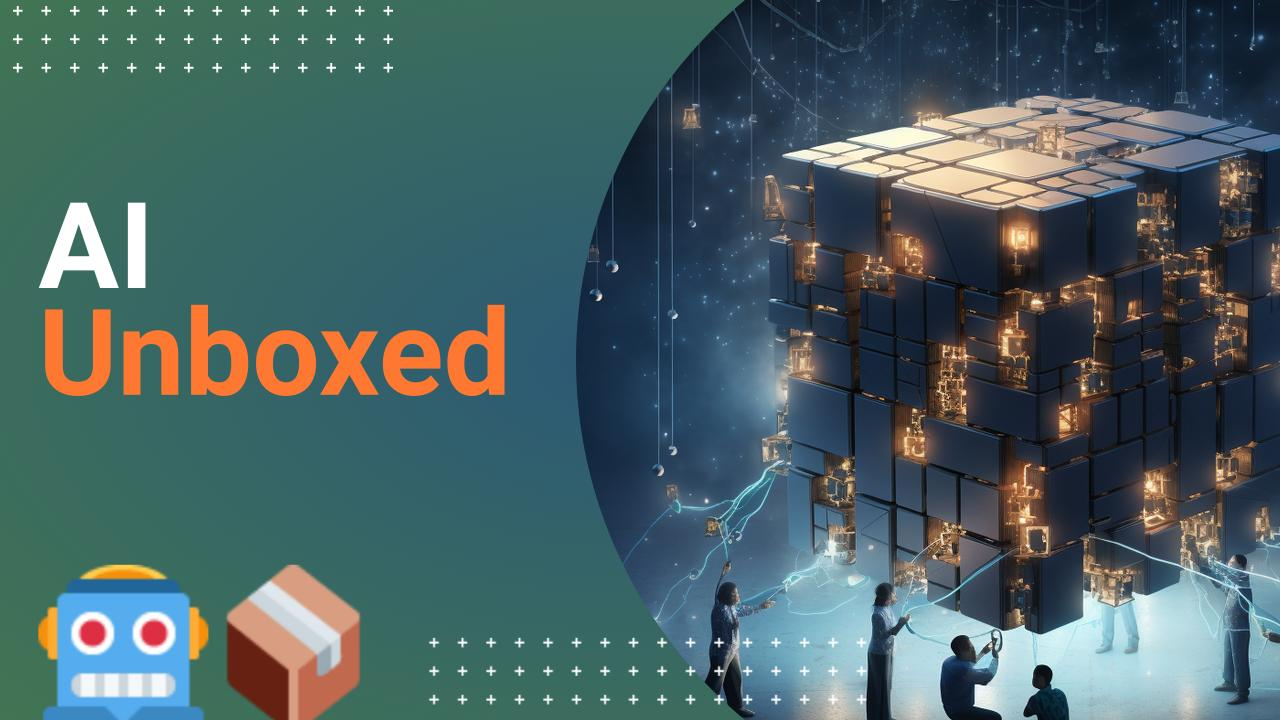
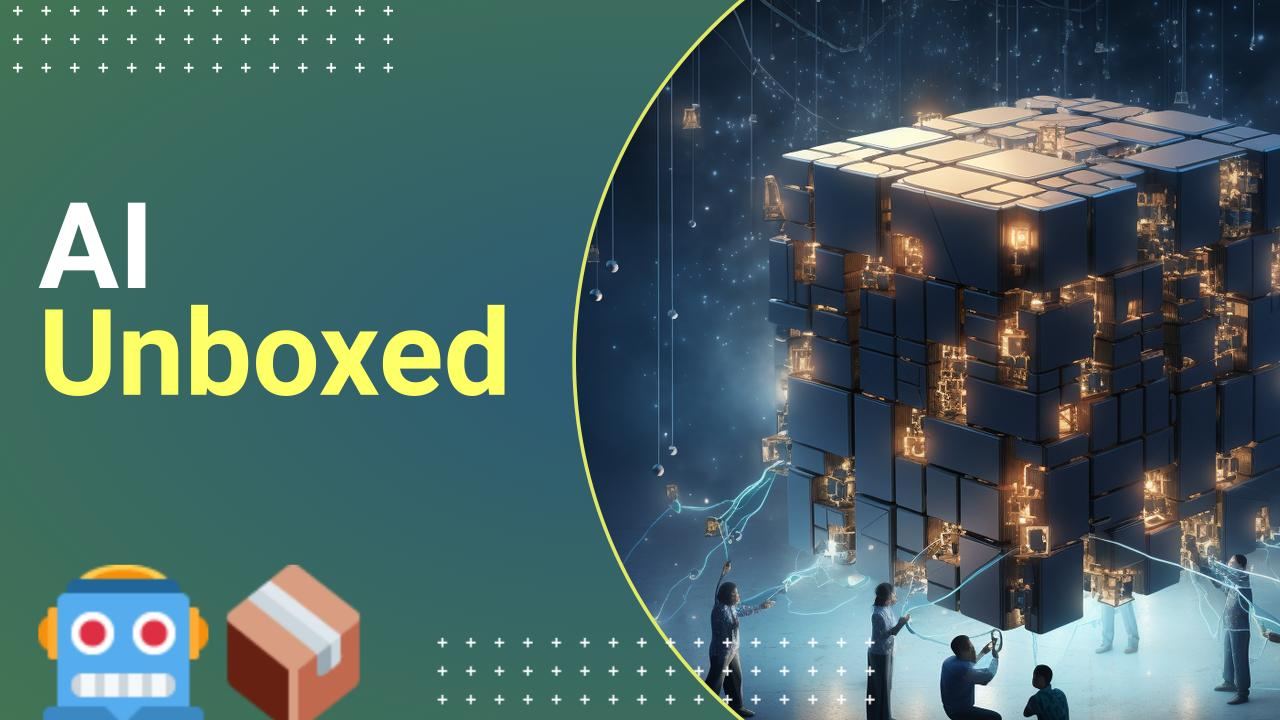
Add border to theme image

diff --git a/src/test.ts b/src/test.ts
@@ -11,7 +11,6 @@ const root = '/Users/spankyed/Develop/Projects/PdfToVid/src/files';
 // Register the font
 registerFont(path.join(root, 'input', 'Roboto-Bold.ttf'), { family: 'Roboto' });
 
-// Function to download an image and save it to a file
 async function downloadImage(url: string, outputPath: string) {
   const response = await fetch(url);
   if (!response.ok) throw new Error(`unexpected response ${response.statusText}`);
@@ -19,7 +18,6 @@ async function downloadImage(url: string, outputPath: string) {
   await promisify(pipeline)(response.body, fs.createWriteStream(outputPath));
 }
 
-// Function to get the URL of an emoji image in the Twemoji repository
 function getEmojiUrl(unicode: string) {
   const codePoints = unicode?.codePointAt(0)?.toString(16);
   return `https://twemoji.maxcdn.com/v/latest/72x72/${codePoints}.png`;
@@ -68,11 +66,22 @@ async function createThumbnail(backgroundPath: string, themePath: string, decora
     const themePosition = width * .45; // Move the theme image to the right such that 55% is visible
     const themeVerticalPosition = (height - theme.height) / 2;
     const decorationVerticalPosition = height - (decoration.height * .35);
-    const decorationHorizontalPosition = (width - decoration.width) * .51;
+    const decorationHorizontalPosition = (width - decoration.width) * .52;
 
     // Draw images on canvas
     console.log('Drawing images on canvas...');
     ctx.drawImage(background, 0, 0, width, height);
+
+    // Draw border around theme image
+    ctx.strokeStyle = '#FFFF66';
+    ctx.lineWidth = 7.5; // Adjust as needed
+    ctx.globalAlpha = 0.85; // Set the opacity to 50%
+    ctx.beginPath();
+    ctx.arc(themePosition + theme.width / 2, themeVerticalPosition + theme.height / 2, theme.width / 2, 0, 2 * Math.PI);
+    ctx.stroke();
+    ctx.globalAlpha = 1.0;
+
+    // Draw theme image
     ctx.drawImage(theme, themePosition, themeVerticalPosition, theme.width, theme.height);
     ctx.drawImage(decoration, decorationHorizontalPosition, decorationVerticalPosition, decoration.width, decoration.height);
 
@@ -86,7 +95,7 @@ async function createThumbnail(backgroundPath: string, themePath: string, decora
     ctx.font = `${fontSize}px Roboto`;
     ctx.fillStyle = '#FFFFFF';
     ctx.fillText('AI', textX, textY);
-    ctx.fillStyle = '#FF7832';
+    ctx.fillStyle = '#FFFF66';
     ctx.fillText('Unboxed', textX, textY + lineHeight + letterSpacing);
 
     // Add emoji images
